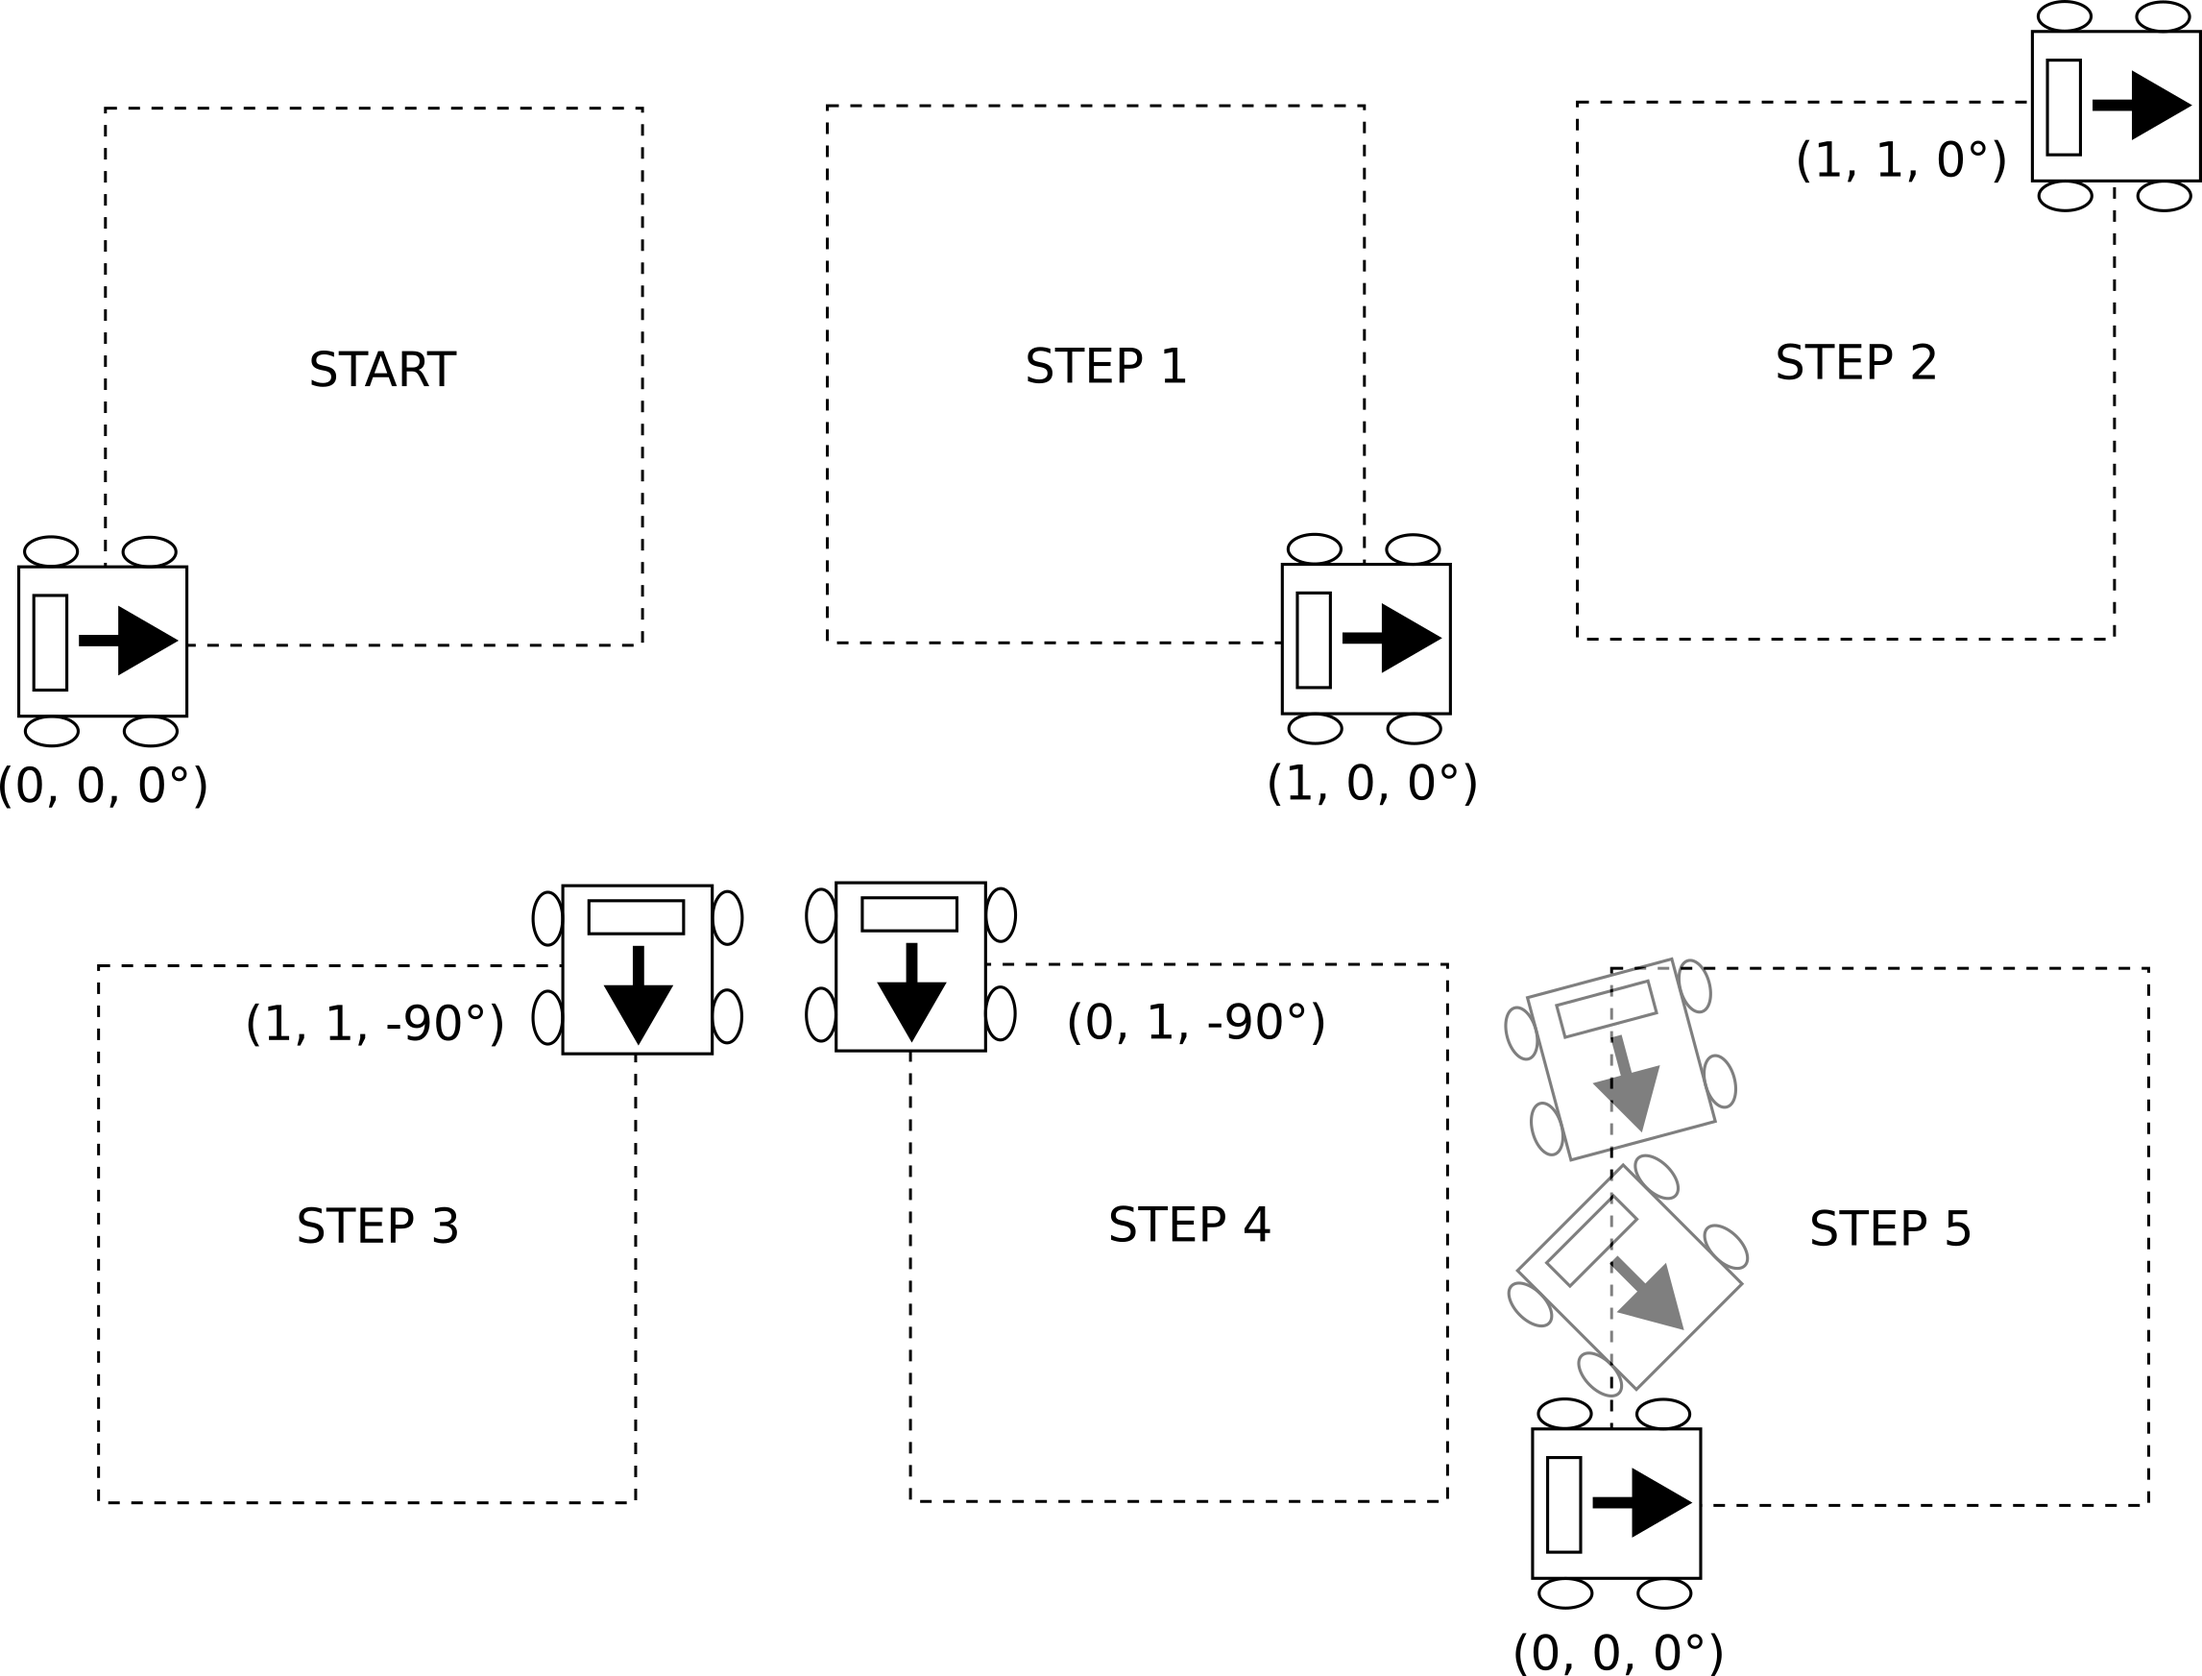
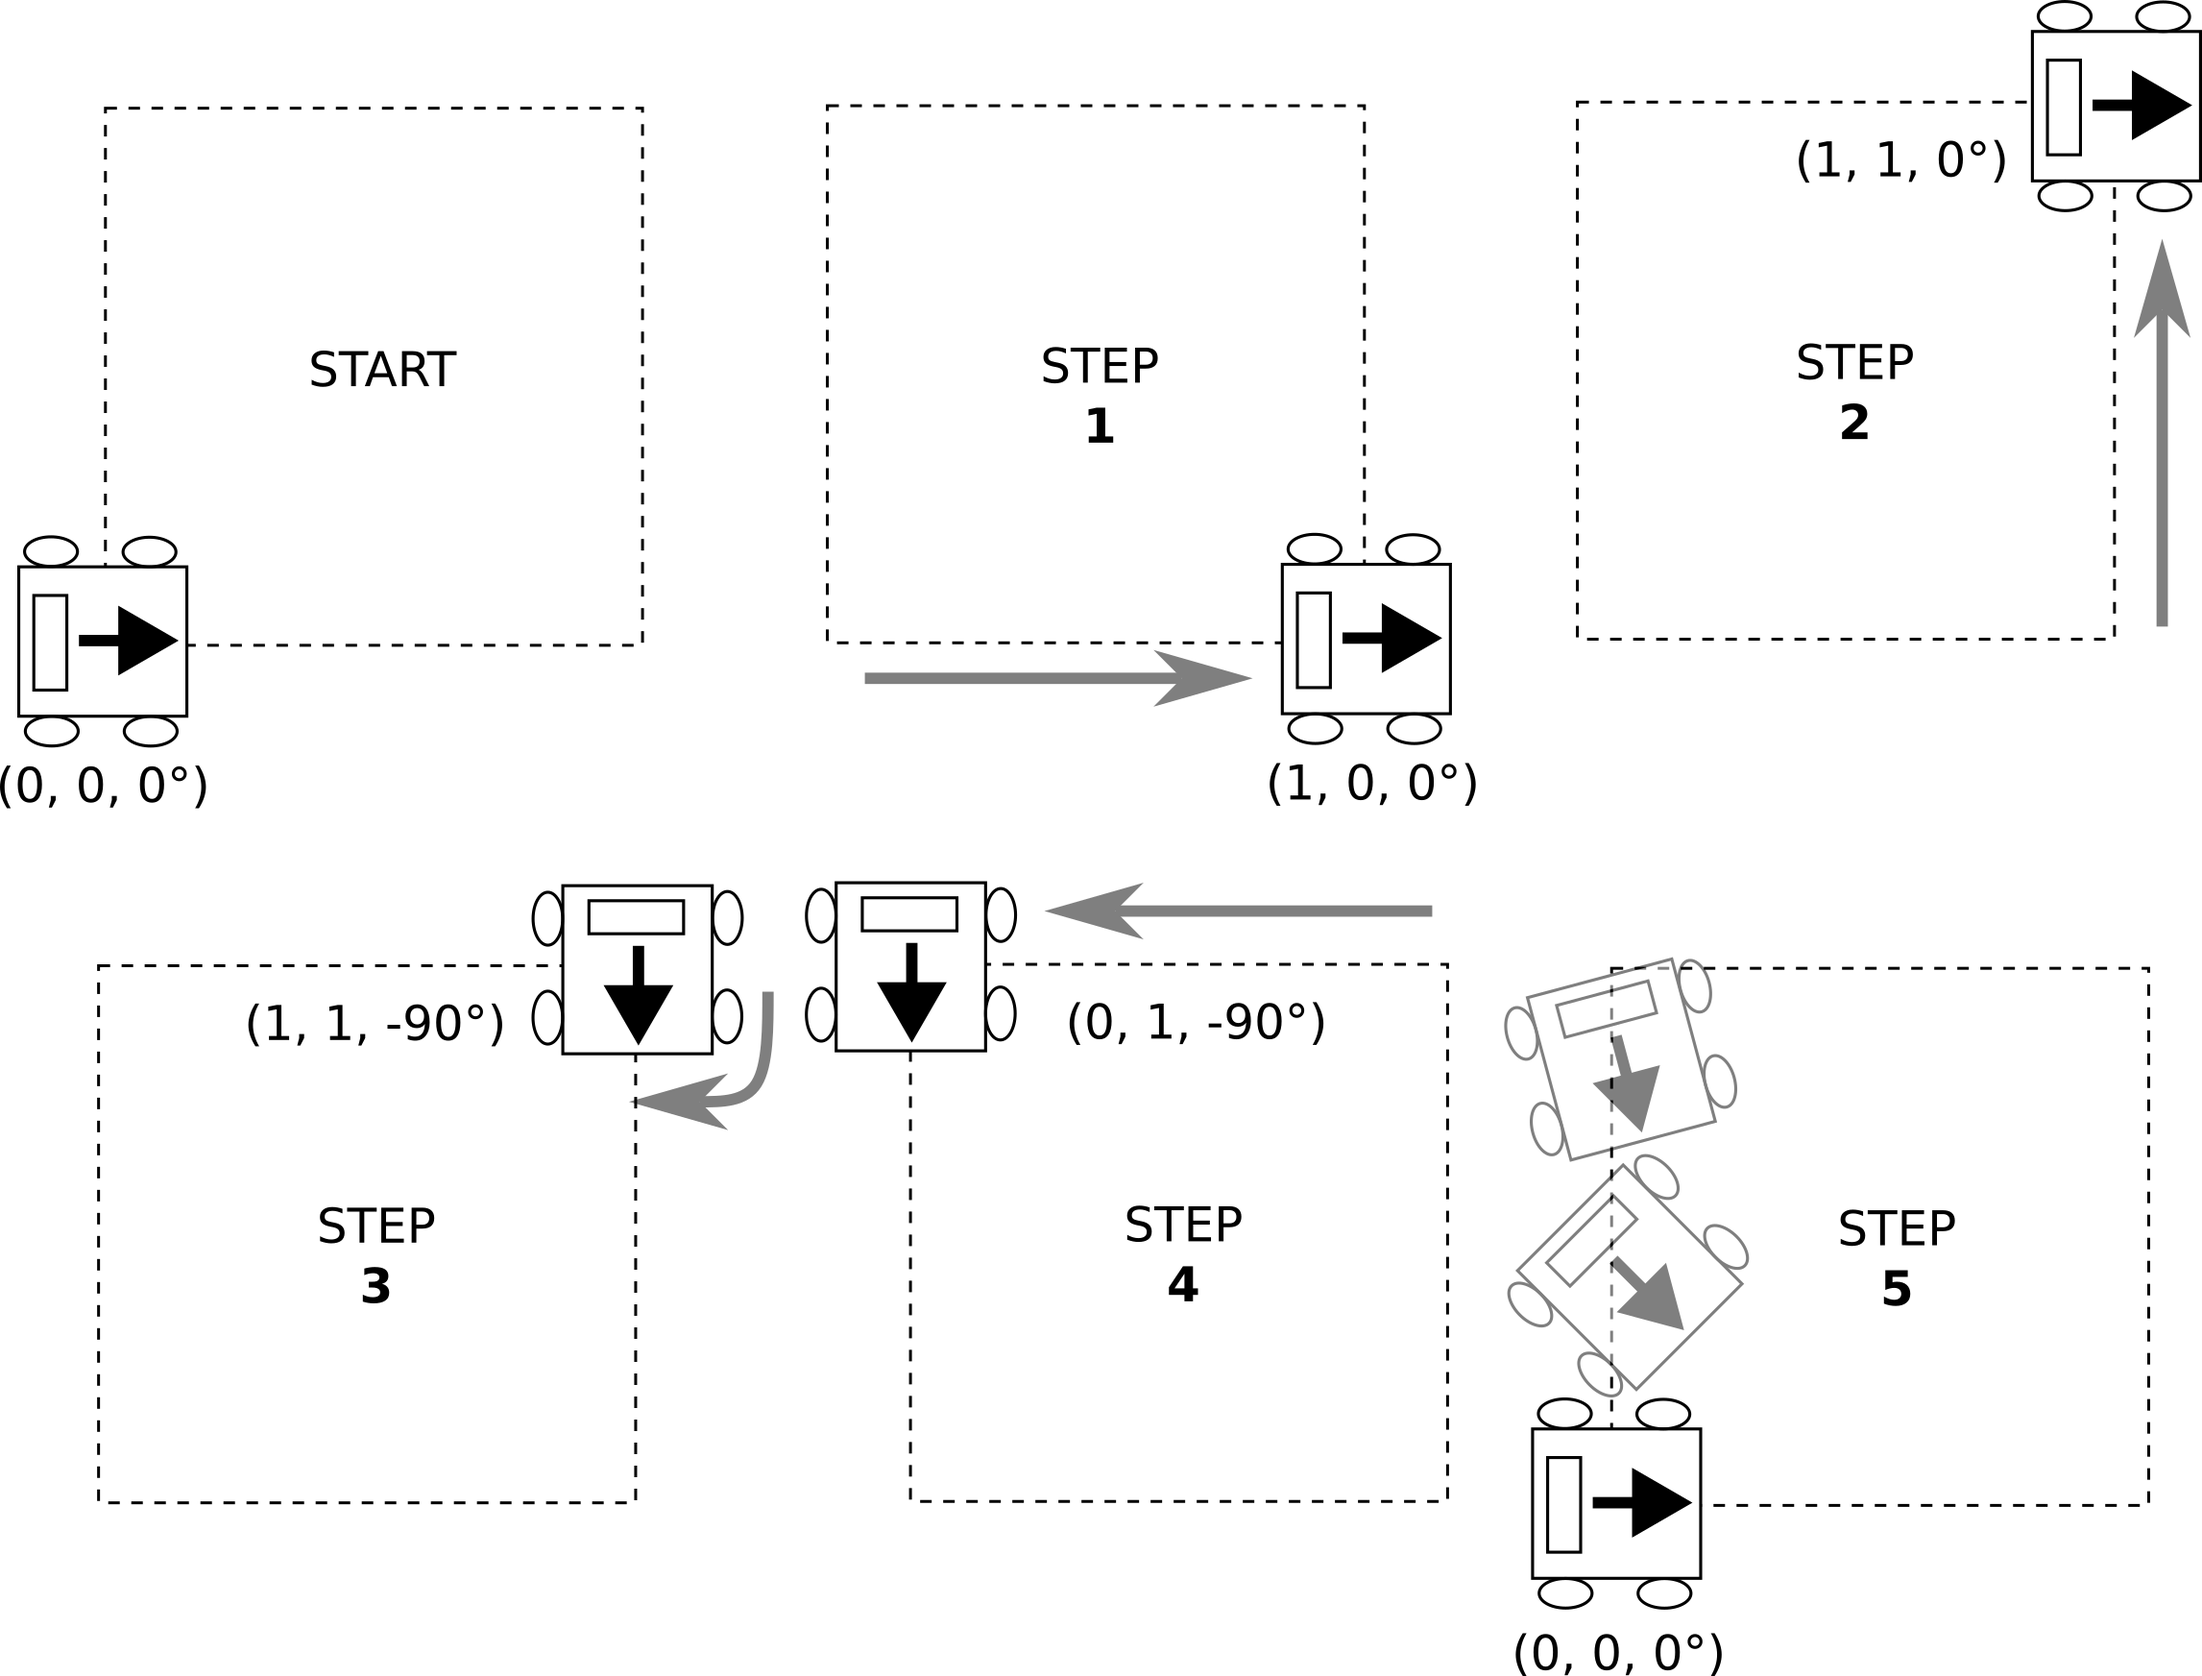
updated square pattern descriptions

diff --git a/docs/aig240/lab5.md b/docs/aig240/lab5.md
@@ -131,11 +131,11 @@ The robot we are using for this course is the JetAuto Pro assembled in the confi
 
 Start:
 
-1. Move from (0, 0, 0°) to (1, 0, 0°) facing the direction of travel; then
-2. Move from (1, 0, 0°) to (1, 1, 0°) without turning, so the robot is facing the outside of the square; then
-3. Turn from (1, 1, 0°) to (1, 1, -90°) to face into the square.
-4. Move from (1, 1, -90°) to (0, 1, -90°) facing the inside of the square.
-5. Move from (0, 1, -90°) to (0, 0, 0°) by rotating the robot while traveling.
+1. Move forward from (0, 0, 0°) to (1, 0, 0°) facing the direction of travel; then
+2. Move left sideway from (1, 0, 0°) to (1, 1, 0°) without turning, so the robot is facing the outside of the square; then
+3. Turn clockwise from (1, 1, 0°) to (1, 1, -90°) to face into the square.
+4. Move right sideway from (1, 1, -90°) to (0, 1, -90°) facing the inside of the square.
+5. Move forward and turn from (0, 1, -90°) to (0, 0, 0°) by rotating the robot while traveling.
 
 Repeat this 2 times after a start command (such as a keyboard input) is given.
 

diff --git a/docs/aig240/project2.md b/docs/aig240/project2.md
@@ -42,11 +42,11 @@ Write code that will move the JetAuto robot in a roughly 1-meter square shape pa
 
 Start:
 
-1. Move from (0, 0, 0°) to (1, 0, 0°) facing the direction of travel; then
-2. Move from (1, 0, 0°) to (1, 1, 0°) without turning, so the robot is facing the outside of the square; then
-3. Turn from (1, 1, 0°) to (1, 1, -90°) to face into the square.
-4. Move from (1, 1, -90°) to (0, 1, -90°) facing the inside of the square.
-5. Move from (0, 1, -90°) to (0, 0, 0°) by rotating the robot while traveling.
+1. Move forward from (0, 0, 0°) to (1, 0, 0°) facing the direction of travel; then
+2. Move left sideway from (1, 0, 0°) to (1, 1, 0°) without turning, so the robot is facing the outside of the square; then
+3. Turn clockwise from (1, 1, 0°) to (1, 1, -90°) to face into the square.
+4. Move right sideway from (1, 1, -90°) to (0, 1, -90°) facing the inside of the square.
+5. Move forward and turn from (0, 1, -90°) to (0, 0, 0°) by rotating the robot while traveling.
 
 Repeat this 2 times after a start command (such as a keyboard input) is given.
 

diff --git a/docs/aig240/project3.md b/docs/aig240/project3.md
@@ -43,11 +43,11 @@ Write code that will move the JetAuto robot in a roughly 1-meter square shape pa
 
 Start:
 
-1. Move from (0, 0, 0°) to (1, 0, 0°) facing the direction of travel; then
-2. Move from (1, 0, 0°) to (1, 1, 0°) without turning, so the robot is facing the outside of the square; then
-3. Turn from (1, 1, 0°) to (1, 1, -90°) to face into the square.
-4. Move from (1, 1, -90°) to (0, 1, -90°) facing the inside of the square.
-5. Move from (0, 1, -90°) to (0, 0, 0°) by rotating the robot while traveling.
+1. Move forward from (0, 0, 0°) to (1, 0, 0°) facing the direction of travel; then
+2. Move left sideway from (1, 0, 0°) to (1, 1, 0°) without turning, so the robot is facing the outside of the square; then
+3. Turn clockwise from (1, 1, 0°) to (1, 1, -90°) to face into the square.
+4. Move right sideway from (1, 1, -90°) to (0, 1, -90°) facing the inside of the square.
+5. Move forward and turn from (0, 1, -90°) to (0, 0, 0°) by rotating the robot while traveling.
 
 Repeat this 2 times after a start command (such as a keyboard input) is given.
 
